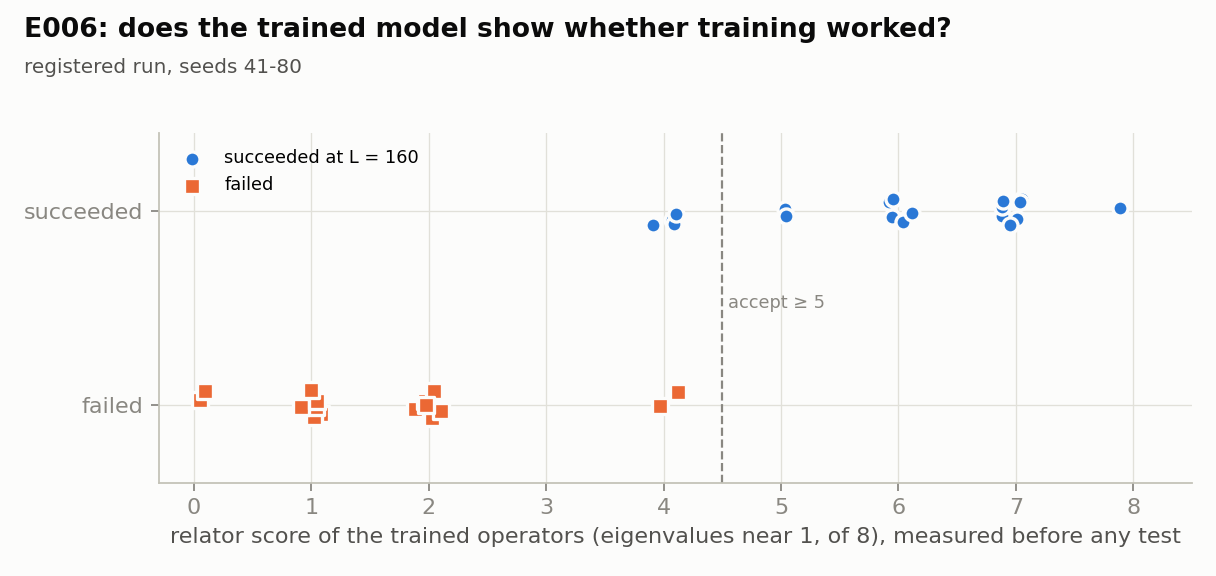
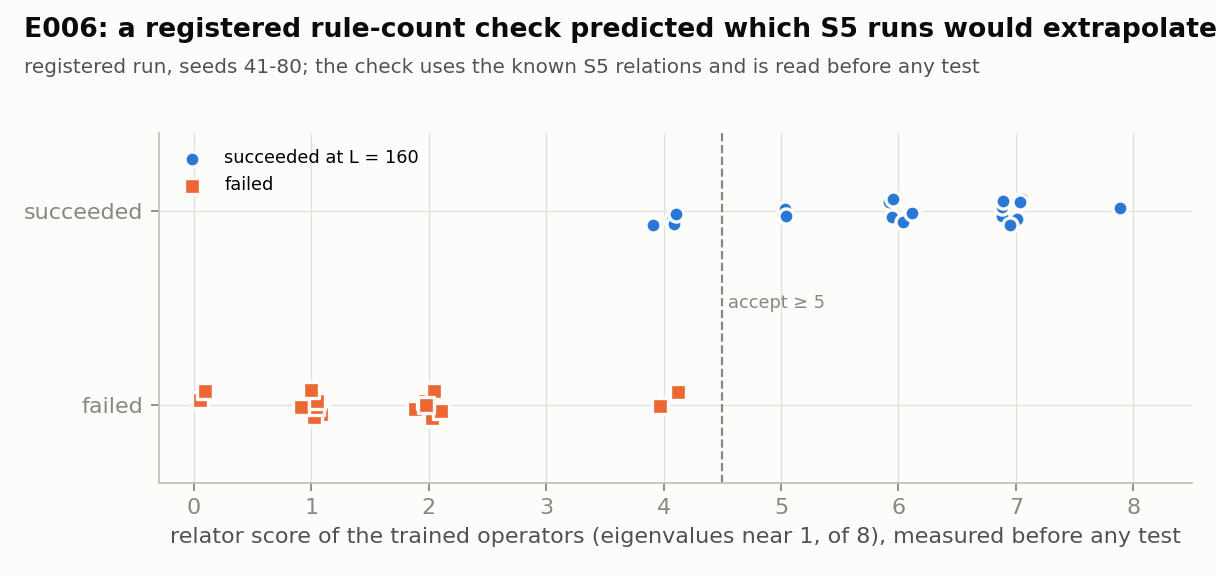
E006: second figure (restart policy vs blind choice); wording tied to what was measured (a registered rule-count check that uses the known S5 relations)

Changed region(s): [[0.0938, 0.0312, 1.0, 0.125]]

diff --git a/scripts/make_figures.py b/scripts/make_figures.py
@@ -130,8 +130,30 @@ def e006():
     ax.set_ylim(-0.4, 1.4)
     ax.set_xlabel("relator score of the trained operators (eigenvalues near 1, of 8), measured before any test")
     ax.legend(frameon=False, loc="upper left", fontsize=8)
-    title(ax, "E006: does the trained model show whether training worked?", tag)
+    title(ax, "E006: a registered rule-count check predicted which S5 runs would extrapolate", tag + "; the check uses the known S5 relations and is read before any test")
     save(fig, "E006_restart_diagnostic.png")
+
+
+def e006_policy():
+    path = os.path.join(ROOT, "results", "verified", "E006_x86_64.json")
+    if not os.path.exists(path):
+        return
+    d = json.load(open(path, encoding="utf-8"))
+    policy = sum(j["success"] for j in d["jobs"])
+    blind = sum(d["blind_first_seed"])
+    n = len(d["jobs"])
+    fig, ax = plt.subplots(figsize=(7.6, 3.0))
+    ax.barh(["restart until the check accepts", "take the first run, no check"], [policy, blind], color=[S1, S2],
+            height=0.5)
+    for i, v in enumerate([policy, blind]):
+        ax.text(v + 0.15, i, f"{v} of {n}", va="center", color=INK2, fontsize=9)
+    ax.set_xlim(0, n + 1.5)
+    ax.set_xlabel(f"groups of 4 seeds that ended with a working model (of {n})")
+    ax.grid(axis="y", visible=False)
+    trainings = np.mean([j["trainings"] for j in d["jobs"]])
+    title(ax, "E006: restarting on the registered check makes training dependable",
+          f"Same 40 fresh seeds, grouped in 10 fours. Mean trainings per group with the check: {trainings:.2f}.")
+    save(fig, "E006_restart_policy.png")
 
 
 def banner():
@@ -176,4 +198,5 @@ if __name__ == "__main__":
     e004()
     e005()
     e006()
+    e006_policy()
     print("wrote", sorted(os.listdir(OUT)))

diff --git a/README.md b/README.md
@@ -47,6 +47,7 @@ invariants check them, and the result is recorded. The model proposes; the mathe
 <img src="figures/E002_area_readout.png" width="49%" alt="E002 R-squared by arm">
 <img src="figures/E006_restart_diagnostic.png" width="49%" alt="E006 relator score against success">
 </p>
+<p><img src="figures/E006_restart_policy.png" width="49%" alt="E006 restart policy against blind choice"></p>
 
 Every figure is drawn by `scripts/make_figures.py` from the committed result files, not from typed
 numbers. 
@@ -56,8 +57,9 @@ numbers.
 - Relation-respecting operators track the S5 state exactly at every tested length (up to 160), while
   a commuting diagonal recurrence is limited to letter-count information (E004). The diagonal arm is
   a mathematical control, not an implementation of any particular state-space model.
-- A check read from the trained operators, before any test, tells working training runs from failed
-  ones (17 of 17 each way, E006), so the unreliable training becomes reliable by restarting.
+- A registered rule-count check, read from the trained operators before any test, predicted which S5
+  training runs would extrapolate to length 160 (17 of 17 each way; score 4 ambiguous). The check
+  uses the known S5 relations. Restarting on it gave a working model in 9 of 10 groups (E006).
 - Training on labelled words of length ≤ 8 can find S5-tracking operators: on 3 of 5 registered seeds
   they were exact at length 160, 20× the longest training word. The readout was fitted on labelled
   long words; the operators never saw one. On 2 of 5 seeds training failed (E005).
